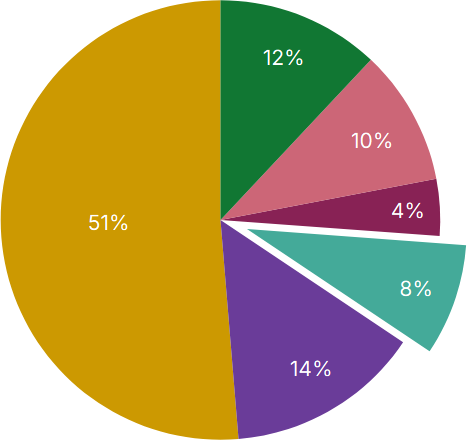
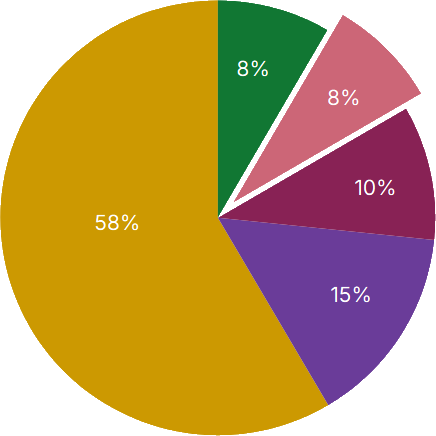
text improvements

diff --git a/components/Allocations.vue b/components/Allocations.vue
@@ -15,35 +15,63 @@ const DIGITS: Record<string, number> = {
   "usdt": 6
 }
 
+const LABELS: Record<string, string> = {
+  sir_balance:              'SIR Balance',
+  sir_liquidity_mining:     'Unclaimed LPing SIR Rewards',
+  sir_unminted_contributor: 'Unclaimed Presale SIR',
+  sir_staked:               'Staked SIR',
+  sir_sir:                  'SIR in Liquidity & Leverage Positions',
+  sir_uniswapV2:            'SIR in Uniswap V2 Pools',
+  sir_uniswapV3:            'SIR in Uniswap V3 Pools',
+  SIR_TOTAL_BALANCE:        'Total SIR Balance',
+  eth_sir:                  'ETH in Liquidity & Leverage Positions',
+  eth_uniswapV2:            'ETH in Uniswap V2 Pools',
+  eth_uniswapV3:            'ETH in Uniswap V3 Pools',
+  WETH_TOTAL_BALANCE:       'Total ETH Balance',
+  wbtc_sir:                 'BTC in Liquidity & Leverage Positions',
+  usdc_sir:                 'USDC in Liquidity & Leverage Positions',
+  usdt_sir:                 'USDT in Liquidity & Leverage Positions',
+  SIR_ENTITLED:             'SIR Entitled',
+}
+
+const HIGHLIGHT_LABELS = [
+  LABELS.SIR_TOTAL_BALANCE,
+  LABELS.WETH_TOTAL_BALANCE,
+  LABELS.SIR_ENTITLED,'Allocation Relaunch'
+]
 
 const formatFieldData = (_key: string, _value: ValueType) => {
   let value: ValueType = '';
-  let key;
+  let key: string | undefined;
 
   if (typeof _value === 'number' || typeof _value === 'boolean' || ethers.isAddress(_value)) {
-
     const numValue = Number(_value)
-
 
     switch (_key) {
       case "allocation_in_billion_parts":
-        value = numValue !== 0 ? (numValue / 10000000).toPrecision(2).toString().concat('%') : numValue;
+        value = numValue !== 0
+          ? (numValue / 10000000).toPrecision(2).toString().concat('%')
+          : numValue;
         key = "Allocation Relaunch"
         break;
       case "allocation_old":
-        value = numValue !== 0 ? (numValue / 100).toString().concat('%') : numValue;
+        value = numValue !== 0
+          ? (numValue / 100).toString().concat('%')
+          : numValue;
         key = "Previous Allocation"
         break;
-      default: value = _value;
+      default:
+        value = _value;
     }
 
   } else if (typeof _value === 'string') {
     const prefix = _key.split('_')[0].toLowerCase();
-    const _v = (_value as string).replace(/,/g, '');
-    const parsedValue = DIGITS[prefix] ? ethers.formatUnits(BigInt(_v), DIGITS[prefix]) : _v;
+    const _v = _value.replace(/,/g, '');
+    const parsedValue = DIGITS[prefix]
+      ? ethers.formatUnits(BigInt(_v), DIGITS[prefix])
+      : _v;
 
-    // Format the value to at most two decimal places
-    if (typeof _value === 'string' && !isNaN(Number(parsedValue))) {
+    if (!isNaN(Number(parsedValue))) {
       const numValue = Number(parsedValue);
       value = new Intl.NumberFormat('en-US', {}).format(numValue)
     } else {
@@ -52,11 +80,16 @@ const formatFieldData = (_key: string, _value: ValueType) => {
     }
   }
 
-  return {
-    label: key || _key
+  // 3) pick label: first from LABELS, then your key override, then title-case
+  const label = LABELS[_key]
+    || key
+    || _key
       .split('_')
       .map(w => w.charAt(0).toUpperCase() + w.substring(1).toLowerCase())
-      .join(' '),
+      .join(' ');
+
+  return {
+    label,
     value: value.toString()
   }
 }
@@ -151,11 +184,17 @@ const handleConnectedWalletLink = () => {
       </UForm>
       <div v-if="foundRecord" class="animated-height space-y-1 text-sm lg:min-w-xl">
 
-        <div v-for="field in record" class="bg-white/5 p-2 rounded-lg">
-          <div class="grid grid-cols-2 gap-2">
+        <div v-for="field in record" 
+          :key="field.label"
+          :class="[
+            'p-2 rounded-lg',
+            HIGHLIGHT_LABELS.includes(field.label)
+              ? 'bg-white/15'   /* slightly stronger tint—swap this for your exact hex or Tailwind slot */
+              : 'bg-white/5'
+          ]">
+          <div class="grid grid-cols-[2fr_1fr] gap-2">
             <div class="text-left">{{ field.label }}</div>
             <div class="text-right">{{ field.value }}</div>
-
           </div>
         </div>
       </div>

diff --git a/components/presale/PreviousContributions.vue b/components/presale/PreviousContributions.vue
@@ -110,7 +110,7 @@ const formatNumber = (value: number, digits: number = 2) => {
         <span class="font-semibold text-md"> {{ formatNumber(contributions.amountFinalNoDecimals) }}</span>
         <span class="text-xs top-2 ml-1 text-gray-suit-500"> {{ token?.name }}</span></div>
     </div>
-    <div
+    <!-- <div
         class="flex flex-col md:flex-row items-center justify-between w-full h-full bg-midGray rounded-lg gap-1 bg-[#ffffff15] p-3">
       <div>Token allocation:</div>
       <div class="">
@@ -125,7 +125,7 @@ const formatNumber = (value: number, digits: number = 2) => {
         </div>
         </div>
       </div>
-    </div>
+    </div> -->
     <div
         class="flex flex-col md:flex-row items-stretch justify-between w-full h-full bg-midGray rounded-lg gap-1 bg-[#ffffff15] p-3">
       <div>Number of locked NFTs:</div>

diff --git a/pages/allocations.vue b/pages/allocations.vue
@@ -39,9 +39,8 @@ const bullets = [
 const chartLegend = [
   { label: "Liquidity providers", color: "bg-[#CC9901]" },
   { label: "Team & Contributors", color: "bg-[#6A3C99]" },
-  { label: "Presale", color: "bg-[#44AA99]" },
-  { label: "Public sale", color: "bg-[#882255]" },
-  { label: "Treasury", color: "bg-[#CC6677]" },
+  { label: "Presale", color: "bg-[#CC6677]"},
+  { label: "Treasury", color: "bg-[#882255]" },
   { label: "Compensation fund (victims of the hack)", color: "bg-[#117733]" },
 ]
 
